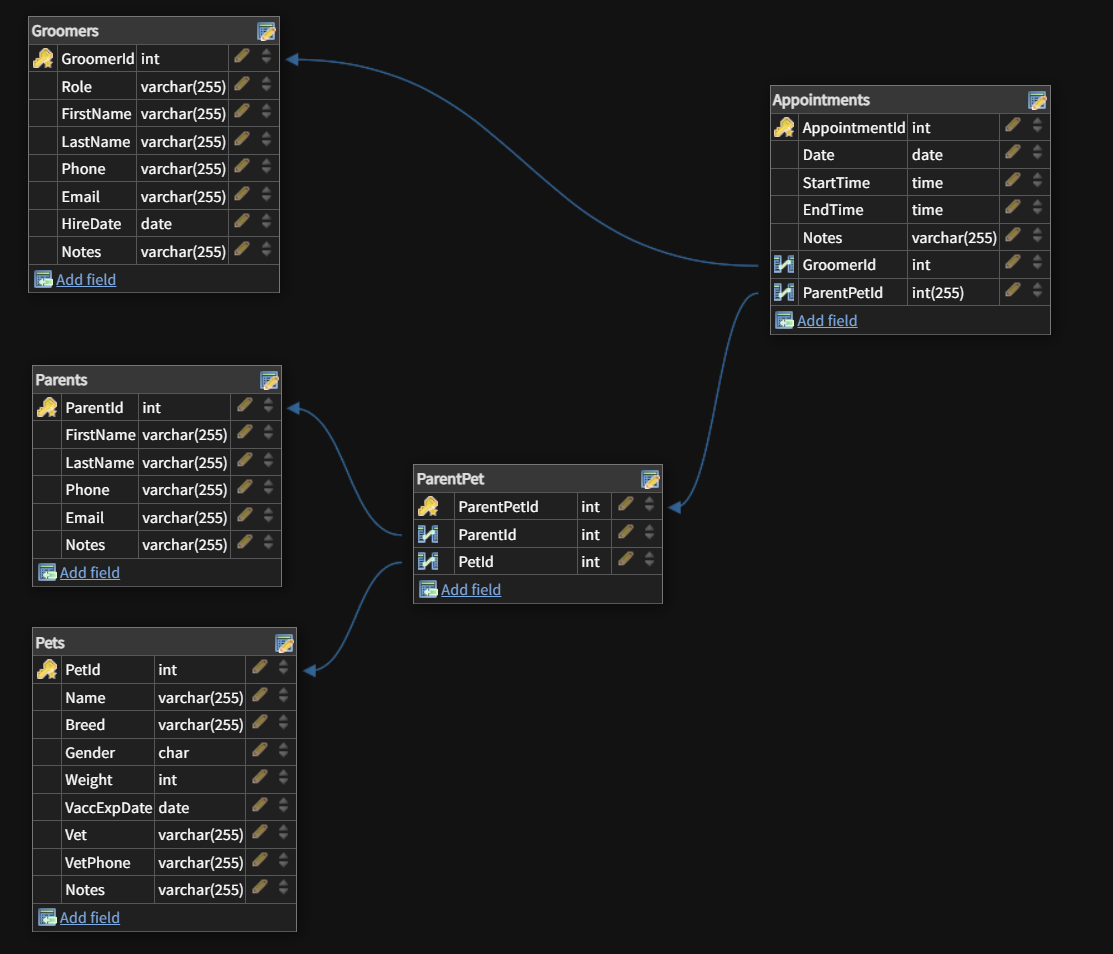
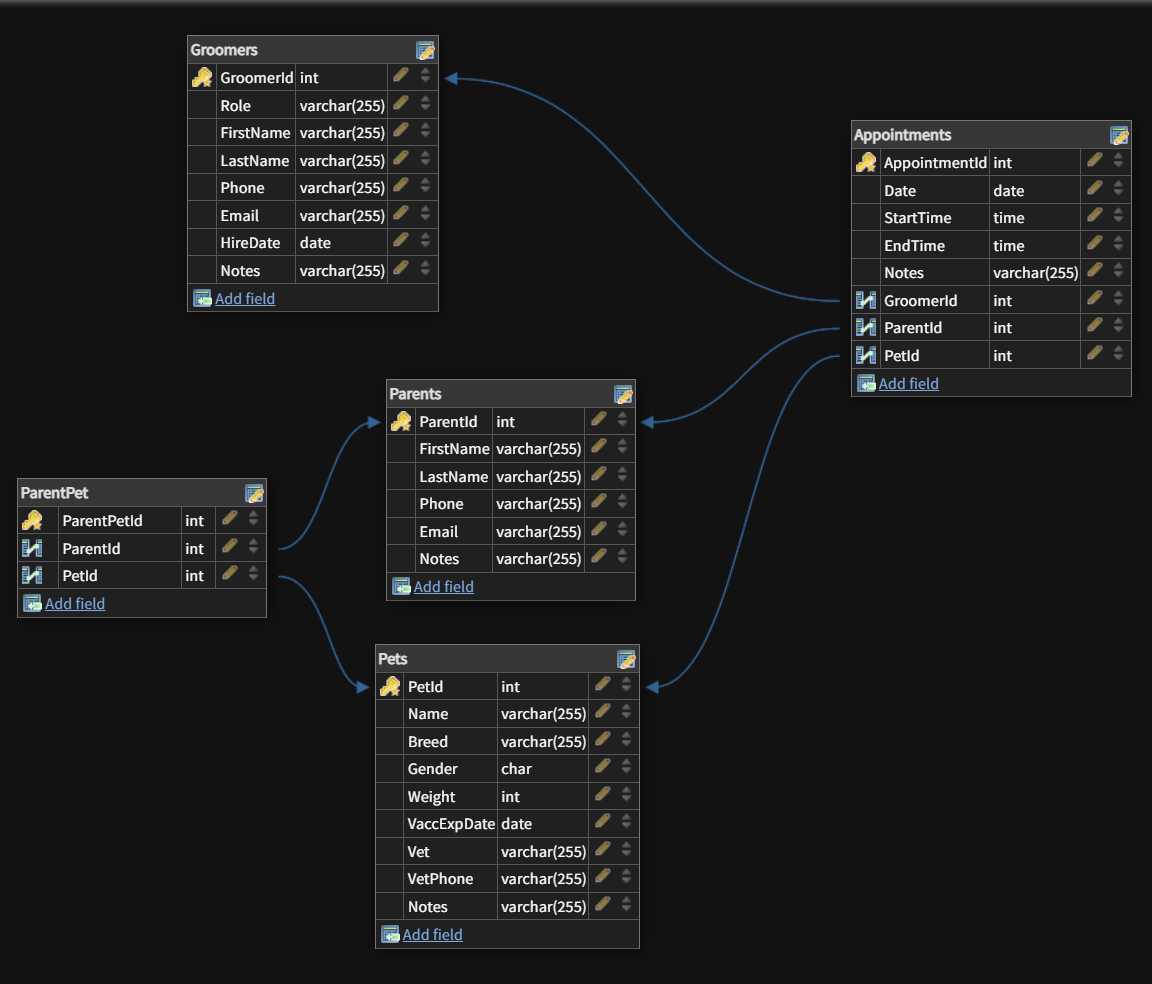
Implement appointment functionality

diff --git a/GroomingShop/Migrations/20230315043447_Initial.cs b/GroomingShop/Migrations/20230315043447_Initial.cs
@@ -97,8 +97,8 @@ namespace GroomingShop.Migrations
                     Notes = table.Column<string>(type: "longtext", nullable: true)
                         .Annotation("MySql:CharSet", "utf8mb4"),
                     GroomerId = table.Column<int>(type: "int", nullable: false),
-                    ParentPetId = table.Column<int>(type: "int", nullable: false),
-                    PetId = table.Column<int>(type: "int", nullable: true)
+                    ParentId = table.Column<int>(type: "int", nullable: false),
+                    PetId = table.Column<int>(type: "int", nullable: false)
                 },
                 constraints: table =>
                 {
@@ -110,16 +110,17 @@ namespace GroomingShop.Migrations
                         principalColumn: "GroomerId",
                         onDelete: ReferentialAction.Cascade);
                     table.ForeignKey(
-                        name: "FK_Appointments_Pets_ParentPetId",
-                        column: x => x.ParentPetId,
-                        principalTable: "Pets",
-                        principalColumn: "PetId",
+                        name: "FK_Appointments_Parents_ParentId",
+                        column: x => x.ParentId,
+                        principalTable: "Parents",
+                        principalColumn: "ParentId",
                         onDelete: ReferentialAction.Cascade);
                     table.ForeignKey(
                         name: "FK_Appointments_Pets_PetId",
                         column: x => x.PetId,
                         principalTable: "Pets",
-                        principalColumn: "PetId");
+                        principalColumn: "PetId",
+                        onDelete: ReferentialAction.Cascade);
                 })
                 .Annotation("MySql:CharSet", "utf8mb4");
 
@@ -156,9 +157,9 @@ namespace GroomingShop.Migrations
                 column: "GroomerId");
 
             migrationBuilder.CreateIndex(
-                name: "IX_Appointments_ParentPetId",
+                name: "IX_Appointments_ParentId",
                 table: "Appointments",
-                column: "ParentPetId");
+                column: "ParentId");
 
             migrationBuilder.CreateIndex(
                 name: "IX_Appointments_PetId",

diff --git a/GroomingShop/Migrations/20230315043447_Initial.Designer.cs b/GroomingShop/Migrations/20230315043447_Initial.Designer.cs
@@ -11,7 +11,7 @@ using Microsoft.EntityFrameworkCore.Storage.ValueConversion;
 namespace GroomingShop.Migrations
 {
     [DbContext(typeof(GroomingShopContext))]
-    [Migration("20230314234212_Initial")]
+    [Migration("20230315043447_Initial")]
     partial class Initial
     {
         protected override void BuildTargetModel(ModelBuilder modelBuilder)
@@ -39,10 +39,10 @@ namespace GroomingShop.Migrations
                     b.Property<string>("Notes")
                         .HasColumnType("longtext");
 
-                    b.Property<int>("ParentPetId")
+                    b.Property<int>("ParentId")
                         .HasColumnType("int");
 
-                    b.Property<int?>("PetId")
+                    b.Property<int>("PetId")
                         .HasColumnType("int");
 
                     b.Property<TimeOnly>("StartTime")
@@ -52,7 +52,7 @@ namespace GroomingShop.Migrations
 
                     b.HasIndex("GroomerId");
 
-                    b.HasIndex("ParentPetId");
+                    b.HasIndex("ParentId");
 
                     b.HasIndex("PetId");
 
@@ -176,15 +176,17 @@ namespace GroomingShop.Migrations
                         .OnDelete(DeleteBehavior.Cascade)
                         .IsRequired();
 
-                    b.HasOne("GroomingShop.Models.Pet", "Parent")
+                    b.HasOne("GroomingShop.Models.Parent", "Parent")
                         .WithMany()
-                        .HasForeignKey("ParentPetId")
+                        .HasForeignKey("ParentId")
                         .OnDelete(DeleteBehavior.Cascade)
                         .IsRequired();
 
                     b.HasOne("GroomingShop.Models.Pet", "Pet")
                         .WithMany()
-                        .HasForeignKey("PetId");
+                        .HasForeignKey("PetId")
+                        .OnDelete(DeleteBehavior.Cascade)
+                        .IsRequired();
 
                     b.Navigation("Groomer");
 

diff --git a/GroomingShop/Controllers/AppointmentsController.cs b/GroomingShop/Controllers/AppointmentsController.cs
@@ -18,14 +18,18 @@ namespace GroomingShop.Controllers
 
     public ActionResult Index()
     {
-      List<Appointment> model = _db.Appointments.ToList();
+      List<Appointment> model = _db.Appointments
+                                .Include(appointment => appointment.Groomer)
+                                .Include(appointment => appointment.Parent)
+                                .Include(appointment => appointment.Pet)
+                                .ToList();
       return View(model);
     }
 
     public ActionResult Create(int id)
     {
       ViewBag.Groomer = _db.Groomers.FirstOrDefault(groomer => groomer.GroomerId == id);
-      // ViewBag.ParentId = new SelectList(_db.Parents, "ParentId", "LastName");
+      ViewBag.ParentId = new SelectList(_db.Parents, "ParentId", "LastName");
       ViewBag.PetId = new SelectList(_db.Pets, "PetId", "Name");
       return View();
     }
@@ -33,7 +37,6 @@ namespace GroomingShop.Controllers
     [HttpPost]
     public ActionResult Create(Appointment appointment)
     {
-      // appointment.PetId = PetId;
       _db.Appointments.Add(appointment);
 
       _db.SaveChanges();
@@ -44,6 +47,7 @@ namespace GroomingShop.Controllers
     {
       Appointment thisAppointment = _db.Appointments
                                     .Include(appointment => appointment.Groomer)
+                                    .Include(appointment => appointment.Parent)
                                     .Include(appointment => appointment.Pet)
                                     .FirstOrDefault(appointment => appointment.AppointmentId == id);
       return View(thisAppointment);

diff --git a/GroomingShop/Migrations/GroomingShopContextModelSnapshot.cs b/GroomingShop/Migrations/GroomingShopContextModelSnapshot.cs
@@ -37,10 +37,10 @@ namespace GroomingShop.Migrations
                     b.Property<string>("Notes")
                         .HasColumnType("longtext");
 
-                    b.Property<int>("ParentPetId")
+                    b.Property<int>("ParentId")
                         .HasColumnType("int");
 
-                    b.Property<int?>("PetId")
+                    b.Property<int>("PetId")
                         .HasColumnType("int");
 
                     b.Property<TimeOnly>("StartTime")
@@ -50,7 +50,7 @@ namespace GroomingShop.Migrations
 
                     b.HasIndex("GroomerId");
 
-                    b.HasIndex("ParentPetId");
+                    b.HasIndex("ParentId");
 
                     b.HasIndex("PetId");
 
@@ -174,15 +174,17 @@ namespace GroomingShop.Migrations
                         .OnDelete(DeleteBehavior.Cascade)
                         .IsRequired();
 
-                    b.HasOne("GroomingShop.Models.Pet", "Parent")
+                    b.HasOne("GroomingShop.Models.Parent", "Parent")
                         .WithMany()
-                        .HasForeignKey("ParentPetId")
+                        .HasForeignKey("ParentId")
                         .OnDelete(DeleteBehavior.Cascade)
                         .IsRequired();
 
                     b.HasOne("GroomingShop.Models.Pet", "Pet")
                         .WithMany()
-                        .HasForeignKey("PetId");
+                        .HasForeignKey("PetId")
+                        .OnDelete(DeleteBehavior.Cascade)
+                        .IsRequired();
 
                     b.Navigation("Groomer");
 

diff --git a/GroomingShop/Models/Appointment.cs b/GroomingShop/Models/Appointment.cs
@@ -13,8 +13,9 @@ namespace GroomingShop.Models
     public string Notes { get; set; }
     public int GroomerId { get; set; }
     public Groomer Groomer { get; set; }
-    public int ParentPetId { get; set; }
-    public Pet Parent { get; set; }
+    public int ParentId { get; set; }
+    public Parent Parent { get; set; }
+    public int PetId { get; set; }
     public Pet Pet { get; set; }
   }
 }

diff --git a/GroomingShop/Models/GroomingShopContext.cs b/GroomingShop/Models/GroomingShopContext.cs
@@ -8,7 +8,6 @@ namespace GroomingShop.Models
     public DbSet<Pet> Pets { get; set; }
     public DbSet<Parent> Parents { get; set; }
     public DbSet<Appointment> Appointments { get; set; }
-
     public DbSet<ParentPet> ParentPets { get; set; }
 
     public GroomingShopContext(DbContextOptions options) : base(options) { }

diff --git a/GroomingShop/Models/ParentPet.cs b/GroomingShop/Models/ParentPet.cs
@@ -4,8 +4,8 @@ public class ParentPet
   {
     public int ParentPetId { get; set; }
     public int ParentId { get; set; }
-    public Parent Parent { get; set; }
     public int PetId { get; set; }
+    public Parent Parent { get; set; }
     public Pet Pet { get; set; }
   }
 }
